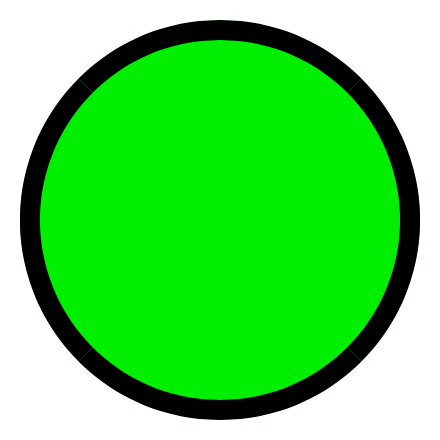
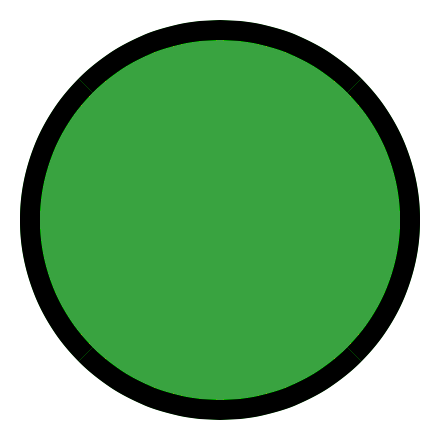
Update colours from official docs and add images for missing colours

diff --git a/data/pico_voice/erica.css b/data/pico_voice/erica.css
@@ -2,25 +2,25 @@
   background-color: #000000;
 }
 .erica-red {
-  background-color: #B9242B;
+  background-color: #CC2025;
 }
 .erica-green {
-  background-color: #399945;
+  background-color: #39A340;
 }
 .erica-dark-blue {
-  background-color: #2A316A;
+  background-color: #0067B4;
 }
 .erica-yellow {
-  background-color: #FCEC24;
+  background-color: #FFF000;
 }
 .erica-light-blue {
-  background-color: #2C8FC1;
+  background-color: #00A4ED;
 }
 .erica-orange {
-  background-color: #D8552B;
+  background-color: #F6891C;
 }
 .erica-pink {
-  background-color: #E0719F;
+  background-color: #EB358B;
 }
 
 .blinking::after {
